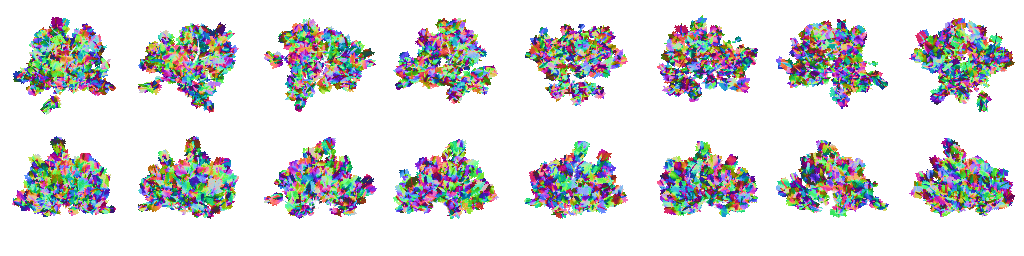
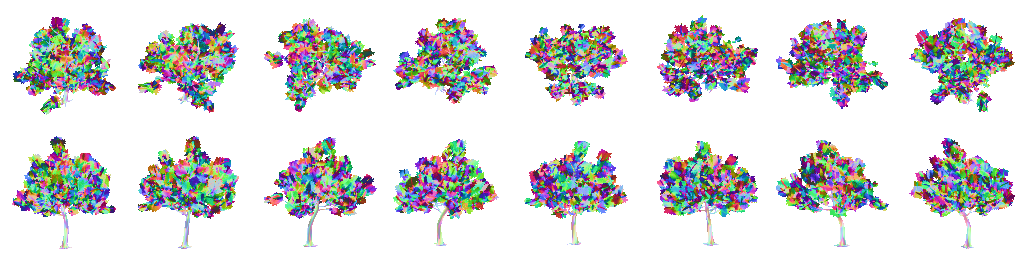
fix(render): preserve trunk normals through atlas PNG encoding

diff --git a/src/editor/stylized/impostor/TreeImpostorMaterial.js b/src/editor/stylized/impostor/TreeImpostorMaterial.js
@@ -1,5 +1,6 @@
 import { applyJungleMist } from '../ambient/jungleMistOutput.js';
 import { treeFoliageEmission } from '../forest/foliageLight.js';
+import { decodeTreeFoliageMaskNode } from './TreeImpostorNormalEncoding.js';
 import * as THREE from 'three/webgpu';
 import {
   atan,
@@ -102,6 +103,7 @@ function createMaterial({ atlas, readTransform, readParameters, readAppearance, 
   );
   const albedo = blendAtlas(atlas.albedo);
   const normalSample = blendAtlas(atlas.normal);
+  const foliageMask = decodeTreeFoliageMaskNode(normalSample.a);
   const viewNormal = normalSample.rgb.mul(2).sub(1);
   const worldNormal = normalize(
     right.mul(viewNormal.x)
@@ -114,7 +116,7 @@ function createMaterial({ atlas, readTransform, readParameters, readAppearance, 
   const colorMultiplier = mix(
     vec3(variation),
     appearance.yzw.mul(variation),
-    normalSample.a,
+    foliageMask,
   );
   const signedFade = parameters.y;
   const fadeMask = step(
@@ -126,7 +128,7 @@ function createMaterial({ atlas, readTransform, readParameters, readAppearance, 
   material.positionNode = worldPosition;
   material.colorNode = albedo.rgb.mul(colorMultiplier);
   if (atlas.foliageLighting) {
-    material.emissiveNode = treeFoliageEmission(material.colorNode).mul(normalSample.a);
+    material.emissiveNode = treeFoliageEmission(material.colorNode).mul(foliageMask);
   }
   material.normalNode = normalize(cameraViewMatrix.mul(vec4(worldNormal, 0)).xyz);
   // Keep atlas alpha stable at full coverage. Feeding it into the stochastic

diff --git a/test/tree-impostor-supersample.test.js b/test/tree-impostor-supersample.test.js
@@ -1,6 +1,17 @@
 import test from 'node:test';
 import assert from 'node:assert/strict';
 import { downsampleTreeImpostorCapture } from '../src/editor/stylized/impostor/TreeImpostorSupersample.js';
+test('trunk normals survive premultiplied canvas transport without becoming foliage',()=>{
+ const albedo=new Uint8Array(4*4*4),normal=new Uint8Array(albedo.length);
+ for(let i=0;i<albedo.length;i+=4){albedo.set([118,80,48,255],i);normal.set([90,180,230,0],i);}
+ const result=downsampleTreeImpostorCapture(albedo,normal,1);
+ assert.equal(result.normal[3],128);
+ // Simulate the 8-bit premultiplication used by a canvas/PNG image path.
+ for(let c=0;c<3;c++){
+  const transported=Math.round(Math.round(result.normal[c]*128/255)*255/128);
+  assert.ok(Math.abs(transported-result.normal[c])<=1);
+ }
+});
 test('offline downsampling preserves linear colour, normal direction and foliage class',()=>{
  const size=4,scale=4,albedo=new Uint8Array(size*size*scale*scale*4),normal=new Uint8Array(albedo.length);
  for(let i=0;i<albedo.length;i+=4){albedo.set([118,80,48,255],i);normal.set([128,128,255,255],i);}

diff --git a/tests/treeImpostorAtlasPixels.test.js b/tests/treeImpostorAtlasPixels.test.js
@@ -15,15 +15,15 @@ test('atlas dilation fills gutter RGB without expanding coverage alpha', () => {
   assert.deepEqual(pixel(tile, 3, 0, 0), [10, 20, 30, 0]);
 });
 
-test('normal dilation uses albedo coverage when trunk mask alpha is zero', () => {
-  const normal = new Uint8ClampedArray([128, 128, 255, 0]);
+test('normal dilation uses albedo coverage while retaining the encoded trunk mask', () => {
+  const normal = new Uint8ClampedArray([128, 128, 255, 128]);
   const albedo = new Uint8ClampedArray([80, 60, 40, 255]);
   const tile = createDilatedAtlasTile(normal, 1, 3, 1, {
     coveragePixels: albedo,
     alphaPixels: normal,
   });
 
-  assert.deepEqual(pixel(tile, 3, 1, 1), [128, 128, 255, 0]);
+  assert.deepEqual(pixel(tile, 3, 1, 1), [128, 128, 255, 128]);
   assert.deepEqual(pixel(tile, 3, 0, 0), [128, 128, 255, 0]);
 });
 

diff --git a/src/editor/stylized/impostor/TreeImpostorSupersample.js b/src/editor/stylized/impostor/TreeImpostorSupersample.js
@@ -1,4 +1,5 @@
 import { foliageMipmaps } from './alphaCoverage.js';
+import { encodeTreeFoliageMask } from './TreeImpostorNormalEncoding.js';
 export const TREE_IMPOSTOR_CAPTURE_SCALE = 4;
 const decode=v=>{v/=255;return v<=.04045?v/12.92:((v+.055)/1.055)**2.4;};
 const encode=v=>Math.round(255*(v<=.0031308?v*12.92:1.055*v**(1/2.4)-.055));
@@ -19,7 +20,7 @@ export function downsampleTreeImpostorCapture(albedo,normal,size,scale=TREE_IMPO
   const i=(y*size+x)*4,length=Math.hypot(...n)||1;
   for(let c=0;c<3;c++){colour[i+c]=weight?encode(rgb[c]/weight):0;normals[i+c]=Math.round((n[c]/length*.5+.5)*255);}
   colour[i+3]=coverage[i+3];
-  normals[i+3]=colour[i+3]>=128&&weight?Math.round(leaf/weight):0;
+  normals[i+3]=colour[i+3]>=128&&weight?encodeTreeFoliageMask(leaf/weight/255):0;
  }
  return {albedo:colour,normal:normals};
 }

diff --git a/test/tree-impostor-normal-validation.test.js b/test/tree-impostor-normal-validation.test.js
@@ -1,0 +1,10 @@
+import test from 'node:test';
+import assert from 'node:assert/strict';
+import { validateTreeNormalPixels } from '../scripts/lib/tree-impostor-normal-validation.mjs';
+test('normal validation rejects lost trunk RGB and classification despite valid dimensions',()=>{
+ const albedo=Uint8Array.of(100,100,100,255,100,100,100,255,0,0,0,0);
+ const normal=Uint8Array.of(128,128,255,128,128,255,128,255,0,0,0,0);
+ assert.deepEqual(validateTreeNormalPixels(albedo,normal),{visible:2,foliage:1,trunk:1});
+ normal[3]=0;assert.throws(()=>validateTreeNormalPixels(albedo,normal),/covered pixel/);
+ normal.set([0,0,0,128]);assert.throws(()=>validateTreeNormalPixels(albedo,normal),/covered pixel/);
+});

diff --git a/src/editor/stylized/impostor/TreeImpostorNormalEncoding.js b/src/editor/stylized/impostor/TreeImpostorNormalEncoding.js
@@ -1,0 +1,11 @@
+// Canvas premultiplies RGB by alpha. Zero-alpha trunk pixels lose their normals.
+// Reserve the upper half of alpha for classification, retaining 7-bit RGB in
+// trunk pixels through canvas/PNG transport. Albedo owns visible coverage.
+export const TREE_NORMAL_MASK_FLOOR_BYTE = 128;
+export const TREE_NORMAL_MASK_RANGE_BYTE = 127;
+export function encodeTreeFoliageMask(mask) {
+  return Math.round(TREE_NORMAL_MASK_FLOOR_BYTE + Math.min(1, Math.max(0, mask)) * TREE_NORMAL_MASK_RANGE_BYTE);
+}
+export function decodeTreeFoliageMaskNode(alpha) {
+  return alpha.sub(TREE_NORMAL_MASK_FLOOR_BYTE / 255).mul(255 / TREE_NORMAL_MASK_RANGE_BYTE).clamp(0, 1);
+}

diff --git a/src/editor/stylized/impostor/TreeImpostorManifest.js b/src/editor/stylized/impostor/TreeImpostorManifest.js
@@ -1,9 +1,9 @@
-export const TREE_IMPOSTOR_MANIFEST_VERSION = 3;
+export const TREE_IMPOSTOR_MANIFEST_VERSION = 4;
 export const TREE_IMPOSTOR_LEGACY_MANIFEST_VERSION = 2;
-export const TREE_IMPOSTOR_NORMAL_ENCODING = 'view-normal-rgb-foliage-mask-a';
+export const TREE_IMPOSTOR_NORMAL_ENCODING = 'view-normal-rgb-foliage-mask-half-a';
 export const TREE_IMPOSTOR_LEGACY_NORMAL_ENCODING = 'view-normal-rgb-coverage-a';
 
-const SOURCE_SIGNATURE_VERSION = 7;
+const SOURCE_SIGNATURE_VERSION = 8;
 const RUNTIME_TREE_FIELDS = new Set([
   'enabled',
   'residentRadius',

diff --git a/tests/treeImpostorManifest.test.js b/tests/treeImpostorManifest.test.js
@@ -139,7 +139,7 @@ test('source signature changes with geometry or bake configuration', () => {
   const configChanged = createTreeImpostorSourceSignature([
     [{ kind: 'leaf', geometry: geometry(1), sourceMap: null }],
   ], { ...config, lod: { impostor: { columns: 16 } } });
-  assert.match(first, /^tree-impostor-v7-/);
+  assert.match(first, /^tree-impostor-v8-/);
   assert.notEqual(first, geometryChanged);
   assert.notEqual(first, configChanged);
 });
